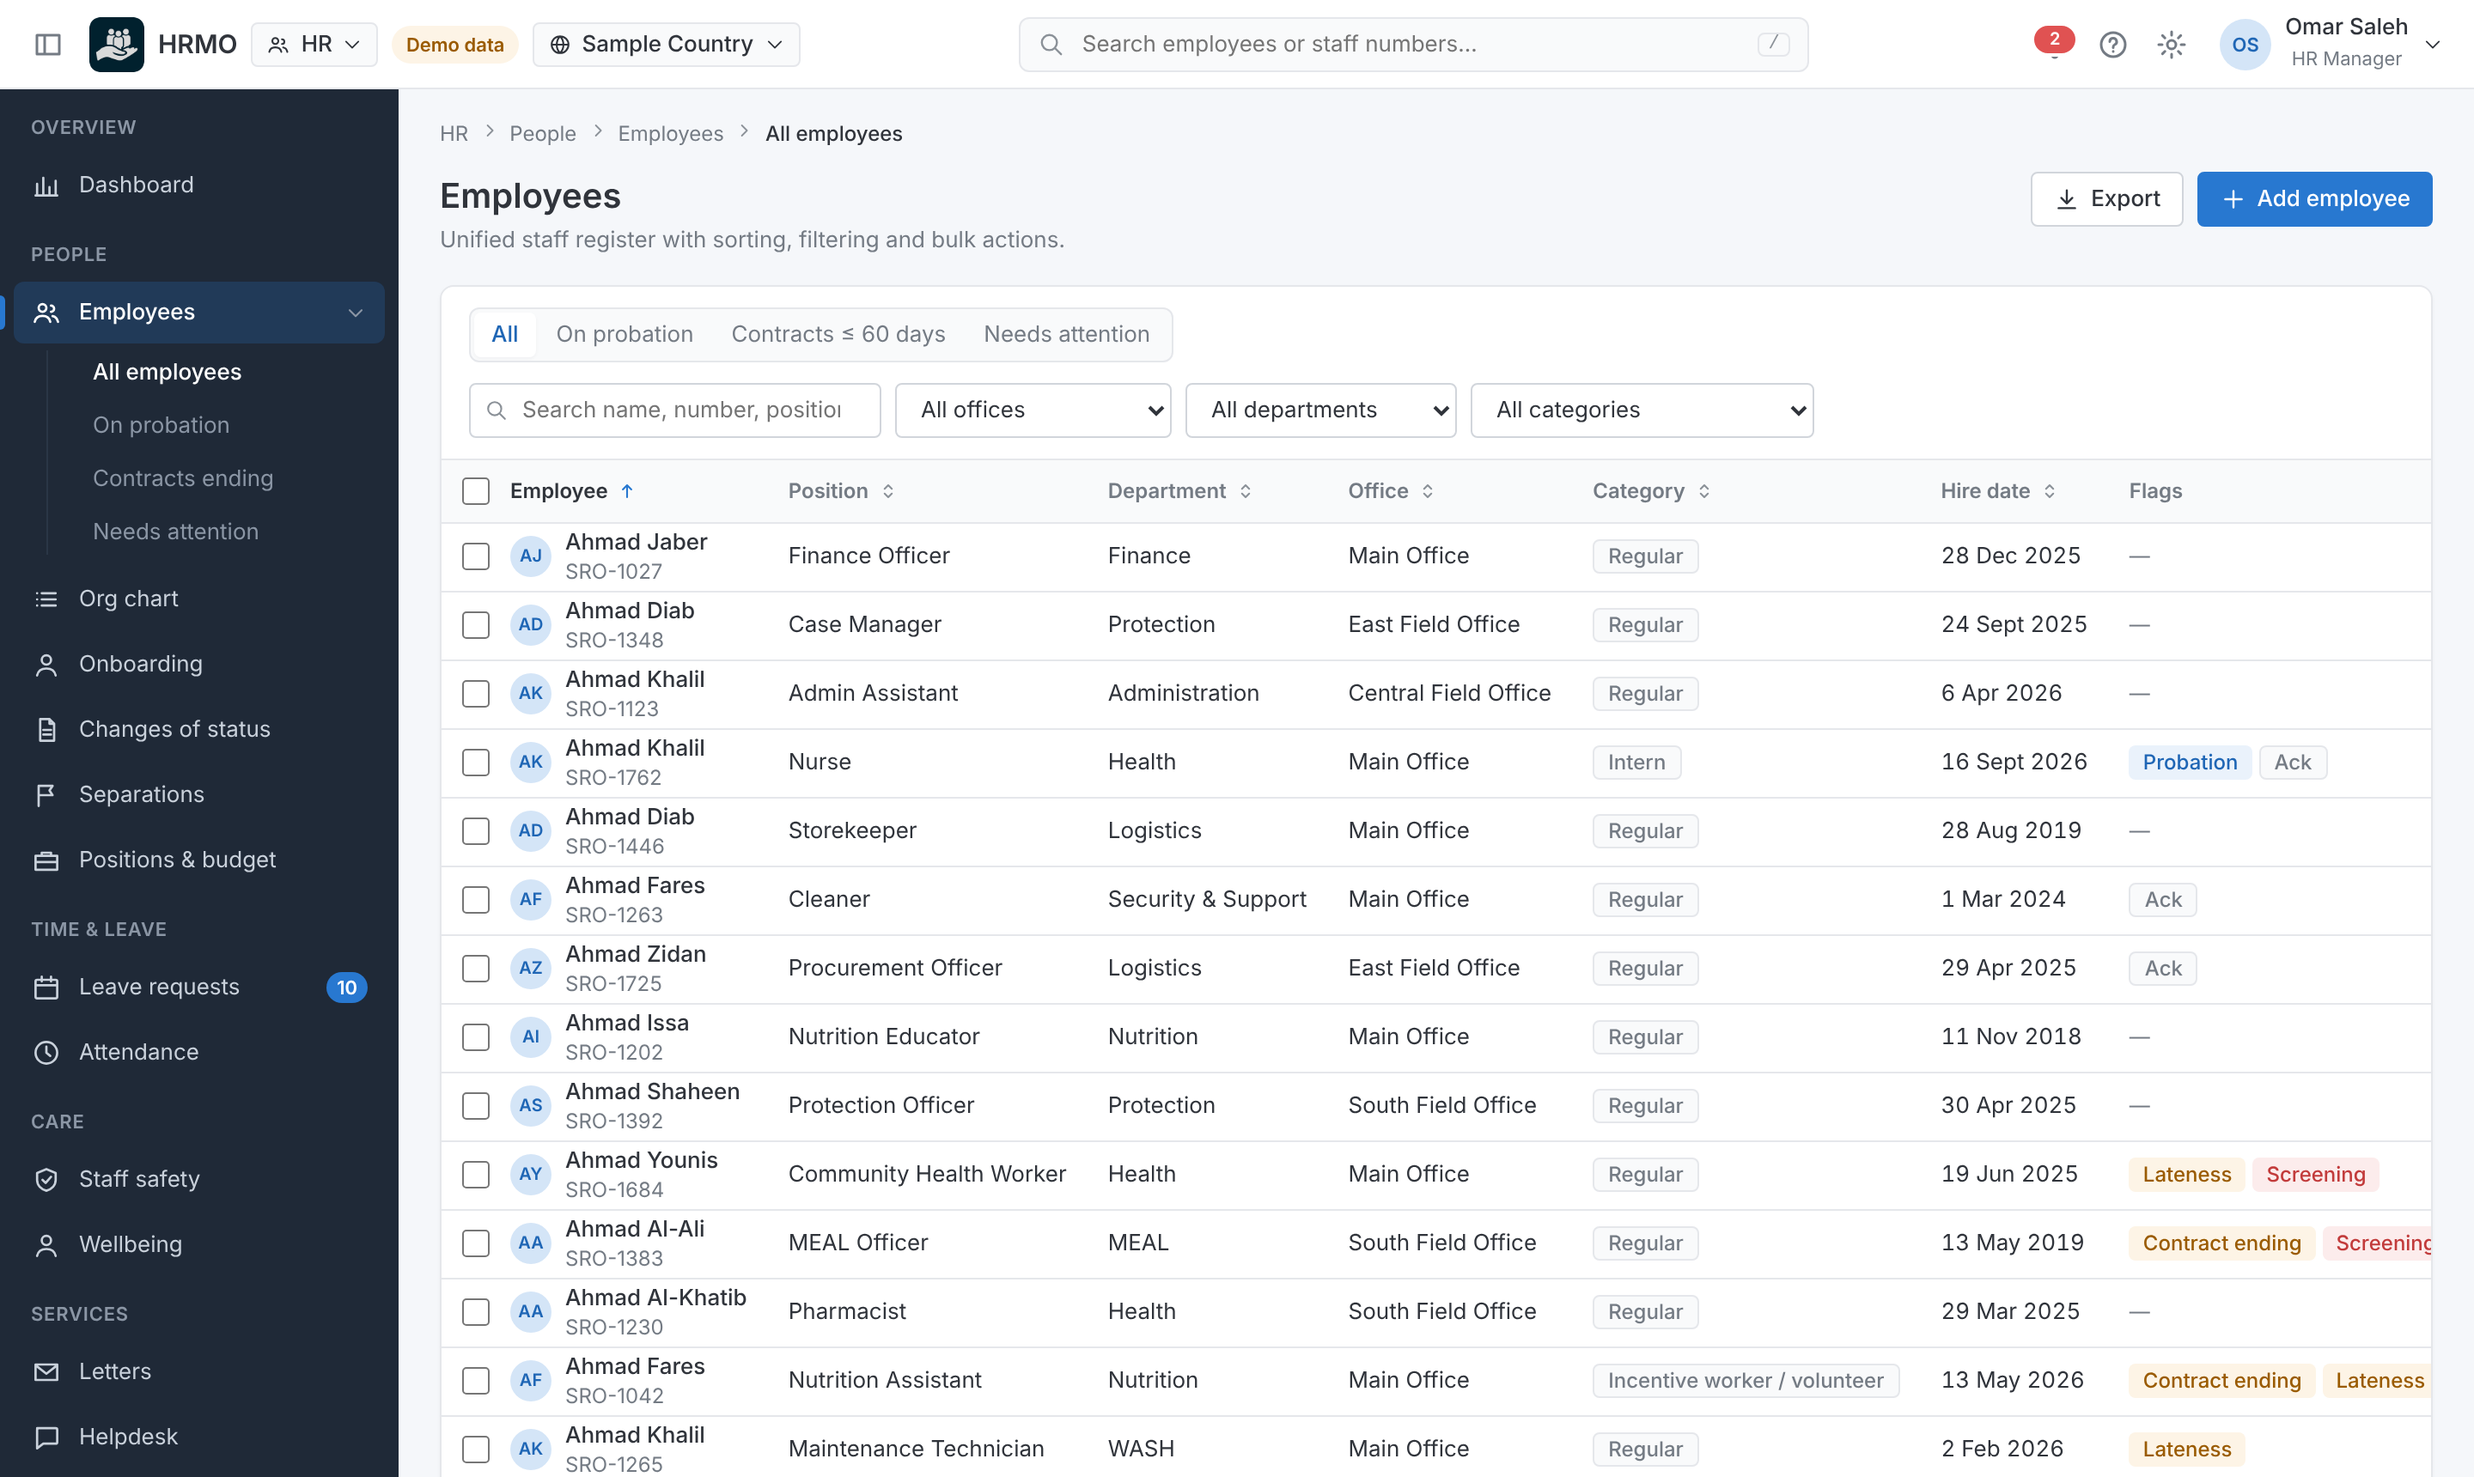
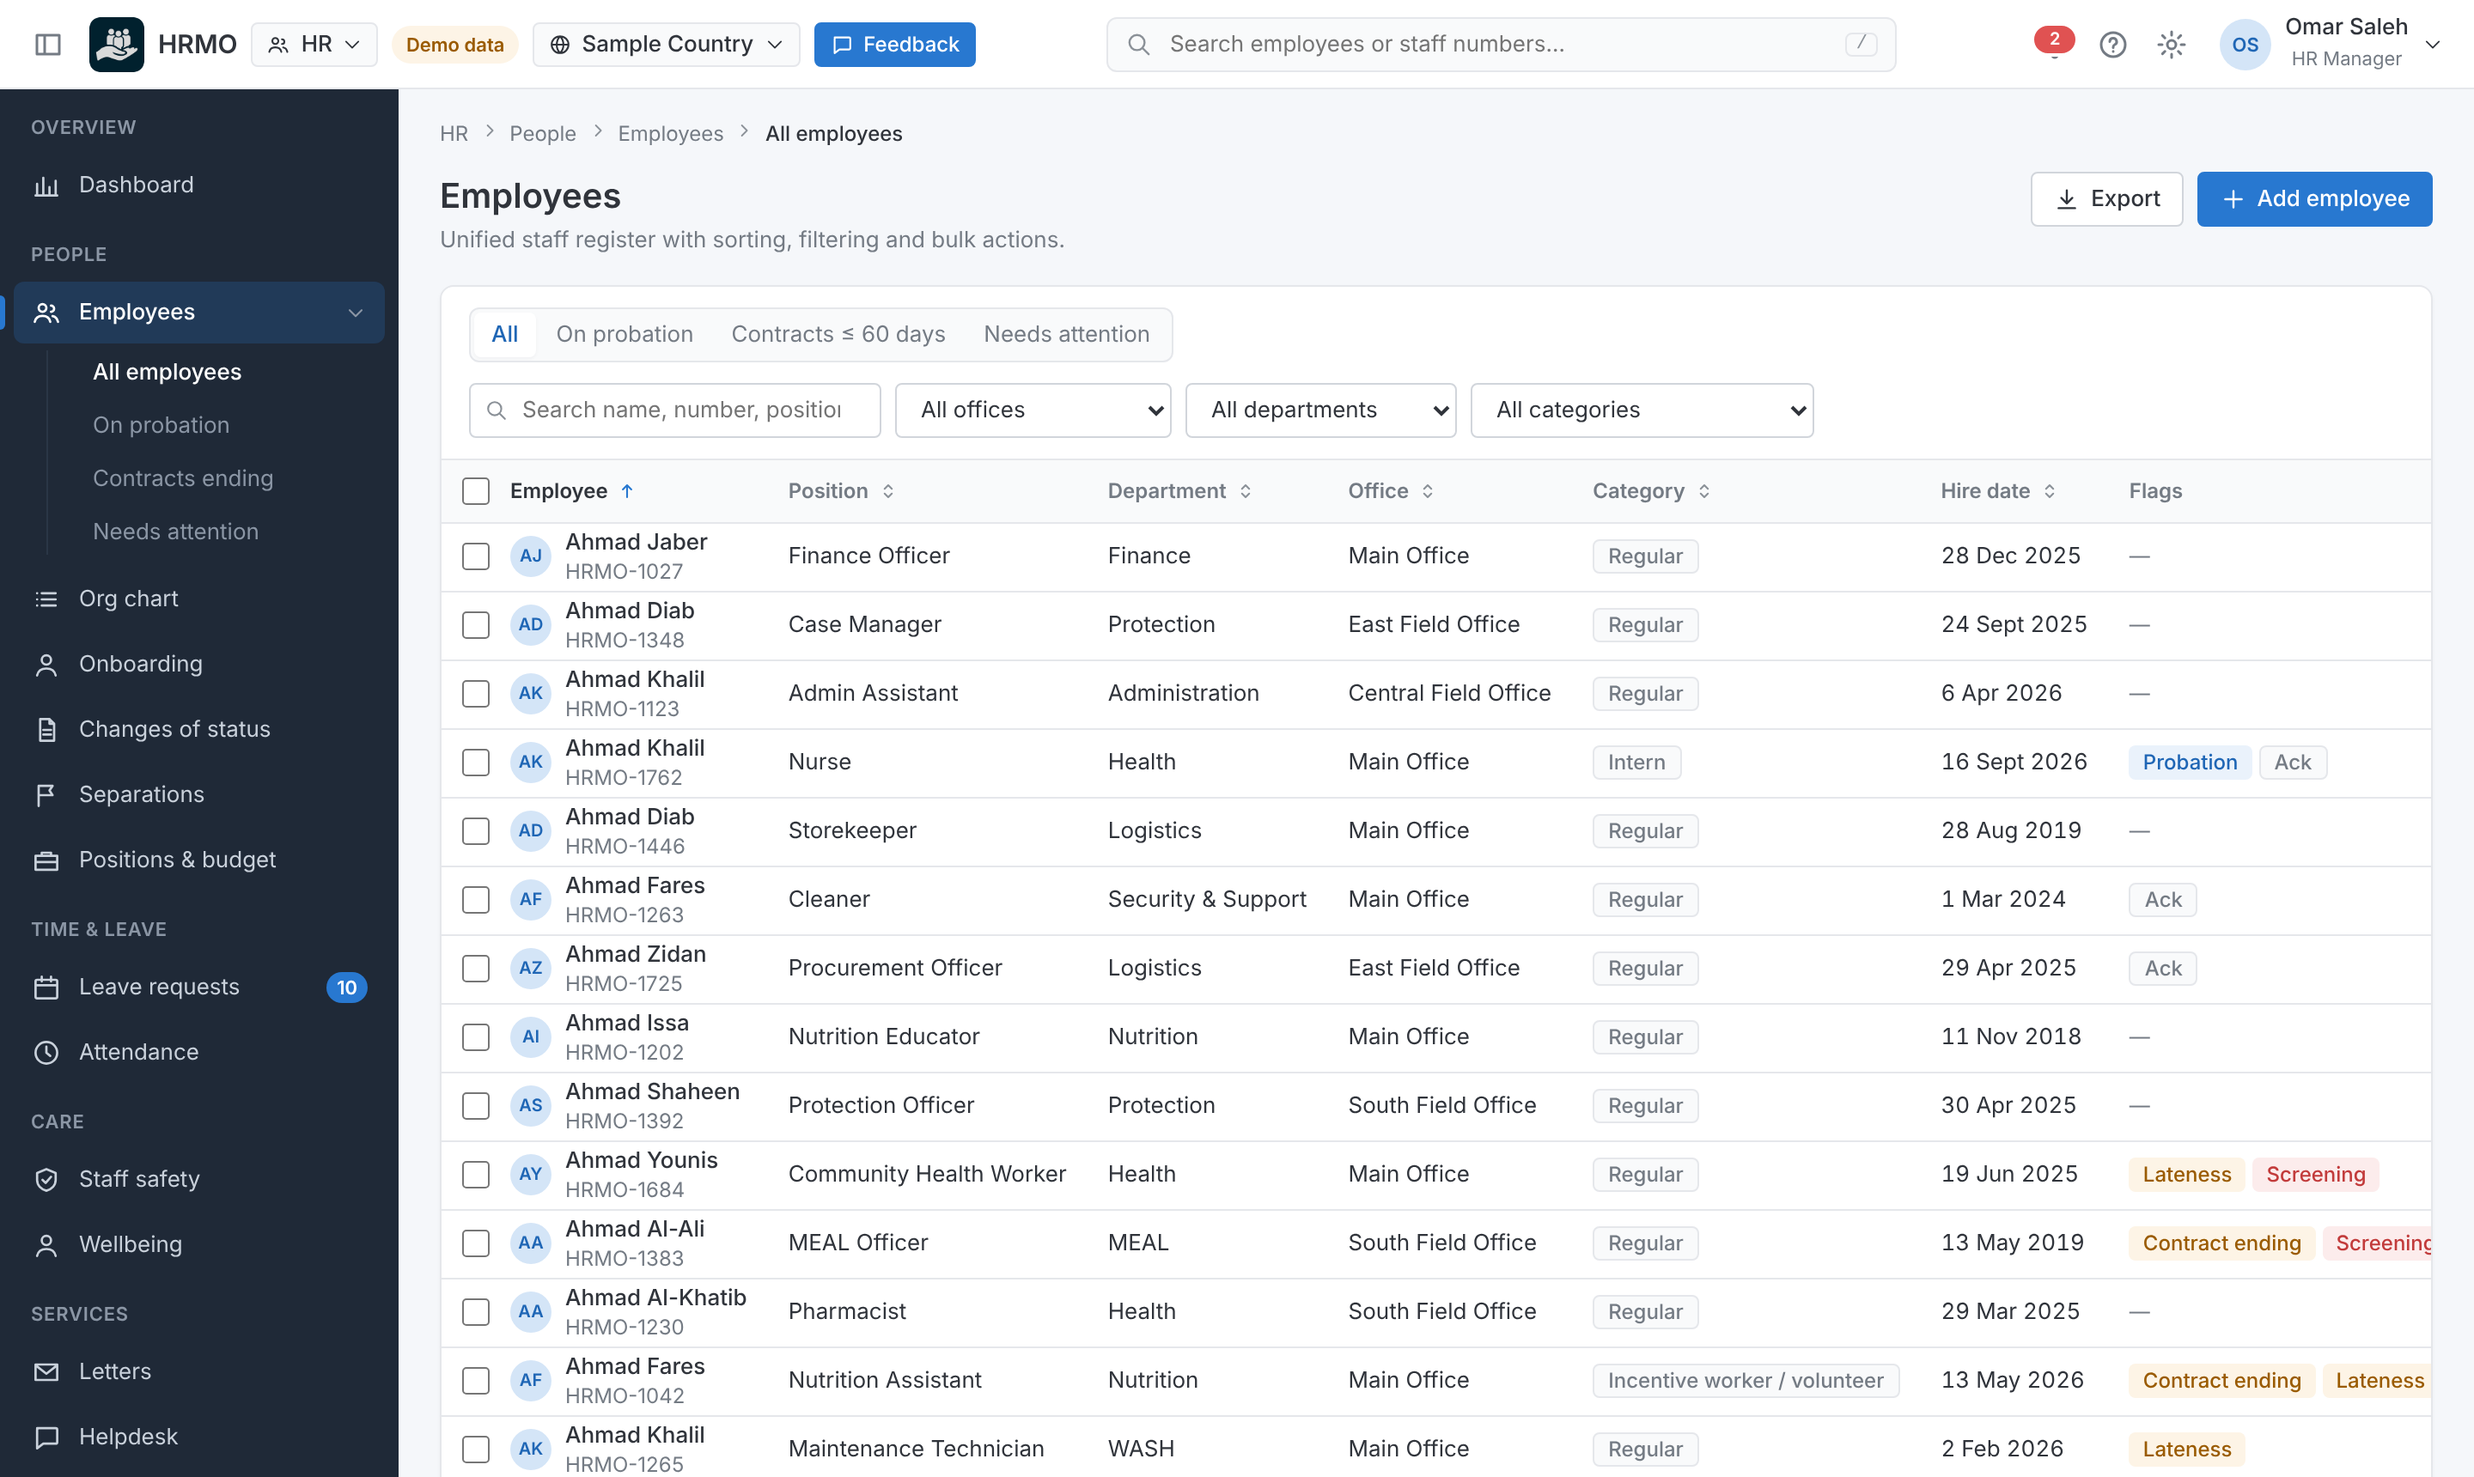
Show HRMO as the organisation name; fix gender agreement in Arabic letters
- Organisation name on letters, dashboards and the sidebar is now HRMO
- Staff numbers use the HRMO- prefix
- Arabic letters agree with the employee's gender throughout
- Screenshots refreshed

Claude-Session: https://claude.ai/code/session_01Ak2Py28yani1Do5WRRv8zp

diff --git a/demo/assets/modules/lifecycle.js b/demo/assets/modules/lifecycle.js
@@ -233,11 +233,11 @@
     const nm = ar ? e.name.ar : e.name.en; const pos = ar ? e.position.ar : e.position.en; const off = (D.OFFICES.find((o) => o.id === e.office) || {})[ar ? 'ar' : 'en'];
     const since = new Intl.DateTimeFormat(ar ? 'ar-u-nu-latn' : 'en-GB', { day: 'numeric', month: 'long', year: 'numeric' }).format(parse(e.hireDate));
     const sal = `${new Intl.NumberFormat('en-US').format(e.baseSalary)} ${ar ? 'دولار أمريكي' : 'USD'}`;
-    const title = ar ? LTYPES[l.type][0] : LTYPES[l.type][1];
-    let p = ar ? `تشهد ${org} بأن ${e.gender === 'F' ? 'السيدة' : 'السيد'} <b>${esc(nm)}</b>، الرقم الوظيفي ${esc(e.staffNo)}، ${e.gender === 'F' ? 'تعمل' : 'يعمل'} لديها بوظيفة <b>${esc(pos)}</b> في ${esc(off)} منذ ${esc(since)}، وما ${e.gender === 'F' ? 'زالت' : 'زال'} على رأس عمله حتى تاريخه.` : `This is to certify that <b>${esc(nm)}</b>, staff number ${esc(e.staffNo)}, has been employed by ${esc(org)} as <b>${esc(pos)}</b> at the ${esc(off)} since ${esc(since)}, and remains in service as of the date of this letter.`;
-    if (l.type === 'SALARY_CERT' || l.type === 'BANK_INTRO') p += ar ? ` ويتقاضى راتباً أساسياً شهرياً قدره ${sal}${l.type === 'BANK_INTRO' ? '، ونرجو تسهيل فتح حساب بنكي له لتحويل راتبه' : ''}.` : ` The monthly base salary is ${sal}.${l.type === 'BANK_INTRO' ? ' We kindly request that a bank account be opened for salary transfer.' : ''}`;
-    if (l.type === 'EMBASSY') p += ar ? ' ونؤكد أن سفره لأغراض العمل/التدريب، وأنه سيعود لاستئناف عمله.' : ' We confirm the travel is for work or training purposes and that the employee will return to resume duties.';
-    const close = ar ? 'أُعطي هذا الخطاب بناءً على طلبه لتقديمه إلى الجهة المذكورة، دون أي مسؤولية على المؤسسة.' : 'This letter is issued at the employee\'s request for submission to the addressee, without any liability on the organization.';
+    const title = ar ? LTYPES[l.type][0] : LTYPES[l.type][1]; const g = (f, m) => (e.gender === 'F' ? f : m);
+    let p = ar ? `تشهد مؤسسة ${org} بأن ${e.gender === 'F' ? 'السيدة' : 'السيد'} <b>${esc(nm)}</b>، الرقم الوظيفي ${esc(e.staffNo)}، ${e.gender === 'F' ? 'تعمل' : 'يعمل'} لديها بوظيفة <b>${esc(pos)}</b> في ${esc(off)} منذ ${esc(since)}، وما ${e.gender === 'F' ? 'زالت' : 'زال'} على رأس ${g('عملها', 'عمله')} حتى تاريخه.` : `This is to certify that <b>${esc(nm)}</b>, staff number ${esc(e.staffNo)}, has been employed by ${esc(org)} as <b>${esc(pos)}</b> at the ${esc(off)} since ${esc(since)}, and remains in service as of the date of this letter.`;
+    if (l.type === 'SALARY_CERT' || l.type === 'BANK_INTRO') p += ar ? ` ${g('وتتقاضى', 'ويتقاضى')} راتباً أساسياً شهرياً قدره ${sal}${l.type === 'BANK_INTRO' ? `، ونرجو تسهيل فتح حساب بنكي ${g('لها لتحويل راتبها', 'له لتحويل راتبه')}` : ''}.` : ` The monthly base salary is ${sal}.${l.type === 'BANK_INTRO' ? ' We kindly request that a bank account be opened for salary transfer.' : ''}`;
+    if (l.type === 'EMBASSY') p += ar ? ` ونؤكد أن ${g('سفرها', 'سفره')} لأغراض العمل أو التدريب، ${g('وأنها ستعود لاستئناف عملها', 'وأنه سيعود لاستئناف عمله')}.` : ' We confirm the travel is for work or training purposes and that the employee will return to resume duties.';
+    const close = ar ? `أُعطي هذا الخطاب بناءً على ${g('طلبها', 'طلبه')} لتقديمه إلى الجهة المذكورة، دون أي مسؤولية على المؤسسة.` : 'This letter is issued at the employee\'s request for submission to the addressee, without any liability on the organization.';
     return `<div style="direction:${ar ? 'rtl' : 'ltr'};text-align:${ar ? 'right' : 'left'};display:grid;gap:12px"><div>${ar ? 'إلى' : 'To'}: <b>${esc(l.to && typeof l.to === 'object' ? l.to[l.lang] : l.to)}</b></div><h3>${esc(title)}</h3><p style="margin:0">${p}</p><p style="margin:0">${close}</p></div>`;
   }
   S.ltrDraft = S.ltrDraft || { type: 'EMPLOYMENT_CERT', to: '', lang: S.lang, purpose: '' };

diff --git a/demo/assets/data.js b/demo/assets/data.js
@@ -62,7 +62,7 @@
   };
 
   // ---------- Reference data ----------
-  const ORG = { ar: 'منظمة نموذجية للإغاثة', en: 'Sample Relief Organization' };
+  const ORG = { ar: 'HRMO', en: 'HRMO' };
   const OFFICES = [
     { id: 'MO', ar: 'المكتب الرئيسي', en: 'Main Office', w: 34, hardship: 'B' },
     { id: 'NF', ar: 'المكتب الميداني الشمالي', en: 'North Field Office', w: 20, hardship: 'C' },
@@ -160,7 +160,7 @@
     const sickUsed = chance(0.45) ? int(1, 6) : 0;
     const emp = {
       id: `E${String(i + 1).padStart(4, '0')}`,
-      staffNo: `SRO-${String(1000 + i)}`,
+      staffNo: `HRMO-${String(1000 + i)}`,
       name, gender: g,
       dept: d[0], deptName: { ar: d[1], en: d[2] },
       position: { ar: g === 'F' ? pos[0].replace(/\/ة/g, 'ة') : pos[0].replace(/\/ة/g, ''), en: pos[1] }, grade,
